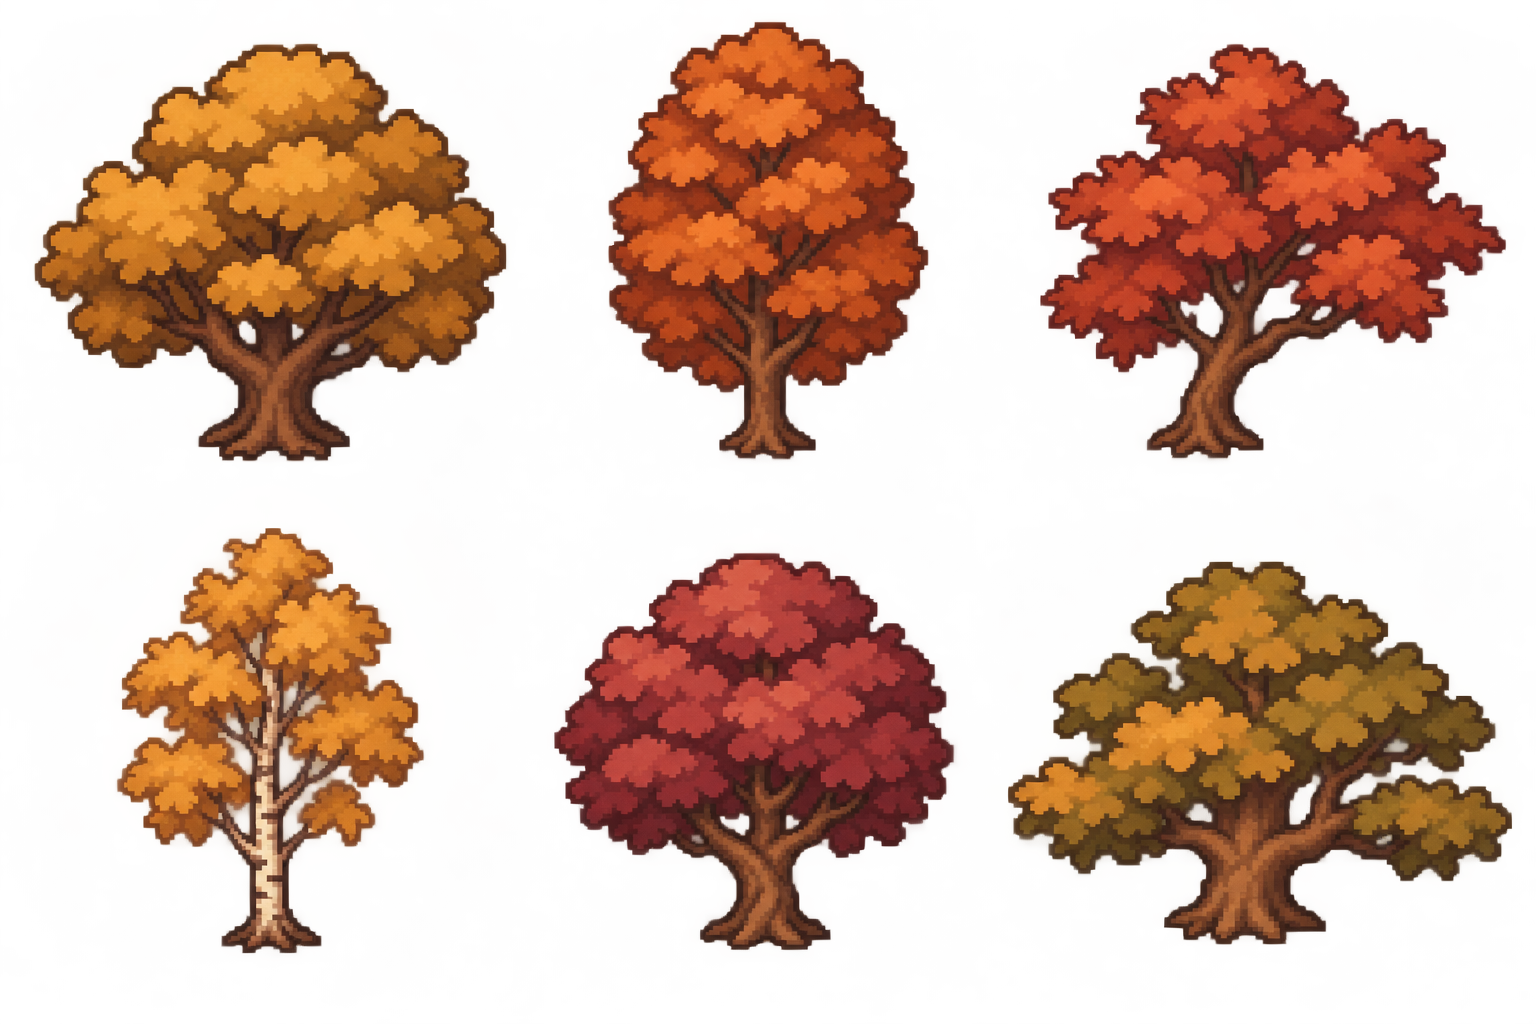
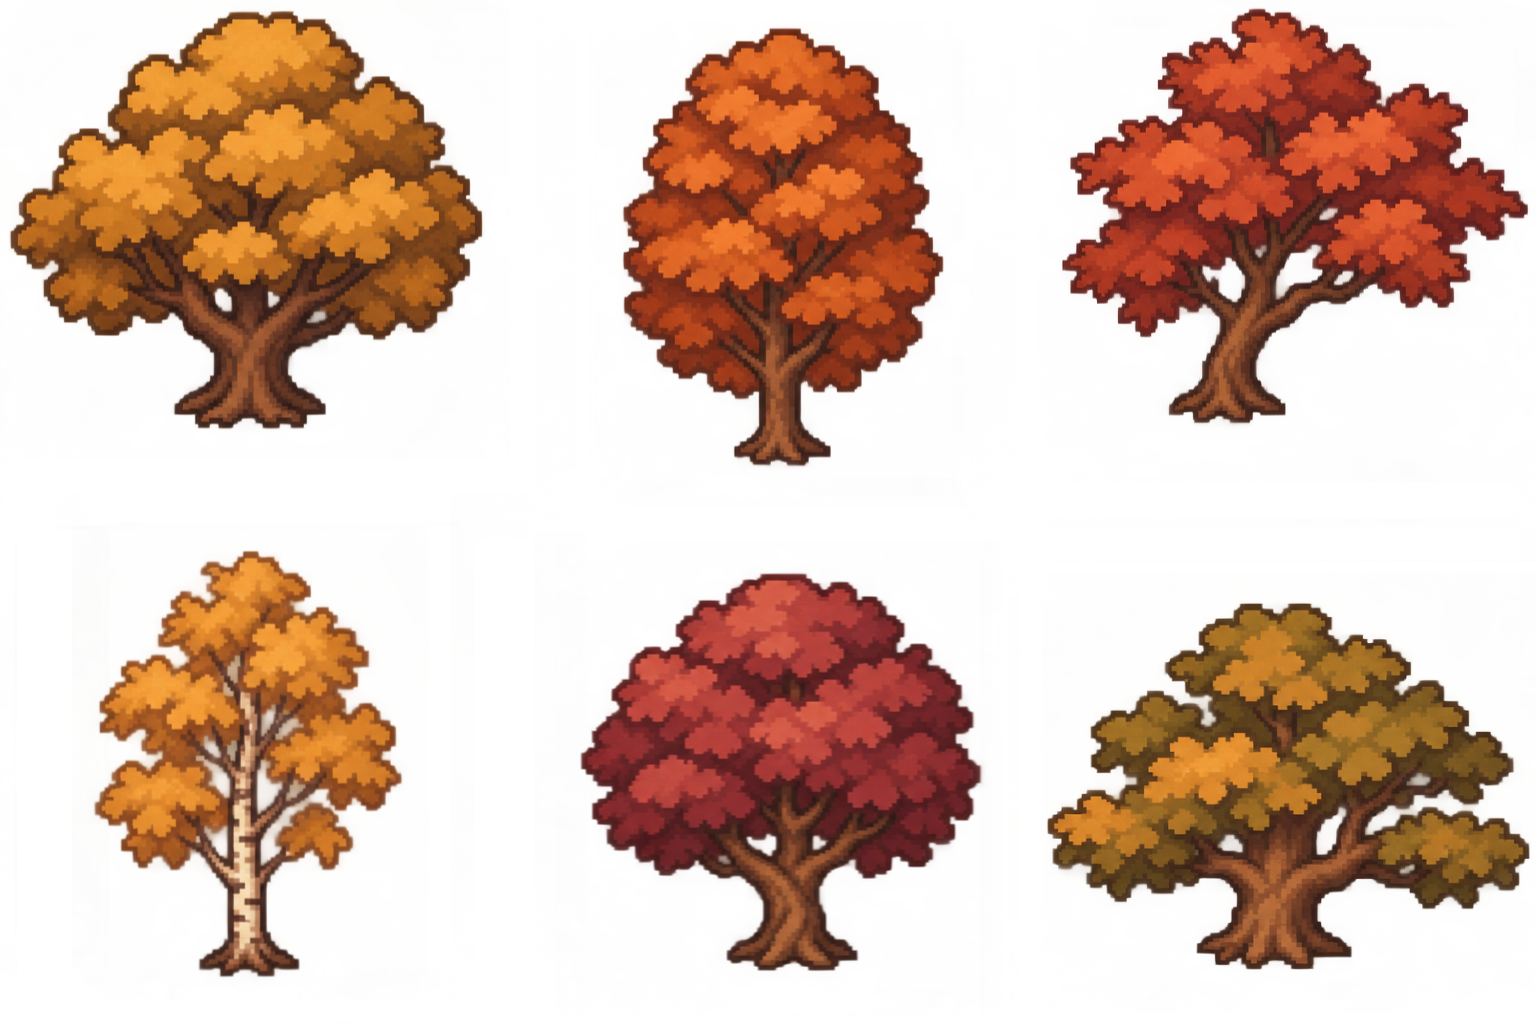
Feat: inventory and almost all obstacles

diff --git a/assets/js/models/game.js b/assets/js/models/game.js
@@ -10,12 +10,14 @@ class Game{
     this.ctx = this.canvas.getContext("2d")
 
     this.bgMusic = new Audio("assets/music/minecraft.mp3")
-    this.bgMusic.volume = 0.1
+    this.bgMusic.volume = 0.3
     this.bgMusic.loop = true
 
     this.bg = new Background(this.ctx)
     this.player = new Player(this.ctx)
-    this.obstacle = new Obstacle(this.ctx, 1000, 1000, 100, 100, ROCKS)
+
+    this.obstaclesCreated = false
+    this.obstacles = []
     this.mushroomsCreated = false
     this.mushrooms = []
 
@@ -68,6 +70,11 @@ class Game{
           this.mushroomsCreated = true
         }
 
+        if(this.bg.image.isReady && this.obstaclesCreated === false){
+          this.createObstacles()
+          this.obstaclesCreated = true
+        }
+
         this.clear()
         this.move()
         this.recolectMushroom()
@@ -97,8 +104,8 @@ class Game{
   
   draw() {
     this.bg.draw()
+    this.obstacles.forEach(obstacle => obstacle.draw(this.bg.x, this.bg.y))
     this.mushrooms.forEach(mushroom => {mushroom.draw(this.bg.x, this.bg.y)})
-    this.obstacle.draw(this.bg.x, this.bg.y)
     this.player.draw(this.isRecolecting, this.recivingDamage)
     this.drawHearts()
   }
@@ -115,18 +122,26 @@ class Game{
     this.player.move(this.bg.borderUp, this.bg.borderRight, this.bg.borderDown, this.bg.borderLeft)
     this.bg.move(this.player)
     
-    //COLISION CON OBSTACULOS
-    const box = this.obstacle.boxToCollides()
-    if(this.player.collidesWith(box, this.bg.x, this.bg.y)){
-      this.player.x = playerX
-      this.player.y = playerY
-      this.bg.x = bgX
-      this.bg.y = bgY
-      this.bg.borderUp = borderUp
-      this.bg.borderRight = borderRight
-      this.bg.borderDown = borderDown
-      this.bg.borderLeft = borderLeft
-    }
+    // COLISION CON OBSTACULOS
+    const playerCollidesWithBox = this.obstacles.some(obstacle => { 
+      const box = obstacle.boxToCollides()
+      if(this.player.collidesWith(box, this.bg.x, this.bg.y)){
+        return true
+      }else{
+        return false
+      }
+    })
+
+     if(playerCollidesWithBox){
+       this.player.x = playerX
+       this.player.y = playerY
+       this.bg.x = bgX
+       this.bg.y = bgY
+       this.bg.borderUp = borderUp
+       this.bg.borderRight = borderRight
+       this.bg.borderDown = borderDown
+       this.bg.borderLeft = borderLeft
+     }
   }
 
   clear() {
@@ -268,9 +283,137 @@ class Game{
     this.accepted.rovello = acceptedRovello
   }
   
-  checkCollisions() {
-  }
+  createObstacles() {
+    const collidesBoxRocks = {
+      rock1: {
+      offsetX: 40,
+      offsetY: 55,
+      w: 30,
+      h: 25
+      },
+      rock2: {
+        offsetX: 35,
+        offsetY: 45,
+        w: 30,
+        h: 35
+      },
+      rock3: {
+        offsetX: 20,
+        offsetY: 65,
+        w: 60,
+        h: 15
+      },
+      rock4: {
+        offsetX: 30,
+        offsetY: 35,
+        w: 40,
+        h: 45
+      },
+      rock6: {
+        offsetX: 35,
+        offsetY: 50,
+        w: 35,
+        h: 30
+      }
+    } 
 
+    const collidesBoxTrees = {
+      tree1: {
+      offsetX: 50,
+      offsetY: 55,
+      w: 50,
+      h: 65
+      },
+      tree2: {
+        offsetX: 66,
+        offsetY: 65,
+        w: 23,
+        h: 65
+      },
+      tree3: {
+        offsetX: 50,
+        offsetY: 65,
+        w: 30,
+        h: 55
+      },
+      tree4: {
+        offsetX: 55,
+        offsetY: 55,
+        w: 30,
+        h: 73
+      },
+      tree5: {
+        offsetX: 60,
+        offsetY: 55,
+        w: 40,
+        h: 73
+      },
+      tree6: {
+        offsetX: 45,
+        offsetY: 60,
+        w: 55,
+        h: 60
+      }
+    } 
+
+    const collidesBoxBrambles = {
+      bramble1: {
+      offsetX: 30,
+      offsetY: 45,
+      w: 50,
+      h: 35
+      },
+      bramble2: {
+        offsetX: 25,
+        offsetY: 25,
+        w: 40,
+        h: 60
+      },
+      bramble3: {
+        offsetX: 10,
+        offsetY: 65,
+        w: 30,
+        h: 55
+      },
+      bramble4: {
+        offsetX: 55,
+        offsetY: 55,
+        w: 30,
+        h: 73
+      },
+      bramble5: {
+        offsetX: 60,
+        offsetY: 55,
+        w: 40,
+        h: 73
+      },
+      bramble6: {
+        offsetX: 45,
+        offsetY: 60,
+        w: 55,
+        h: 60
+      }
+    } 
+
+    const collidesBoxTrunks = {
+      trunk1: {
+      offsetX: 25,
+      offsetY: 45,
+      w: 60,
+      h: 25
+      },
+    } 
+
+
+    this.obstacles.push(
+      new Obstacle(this.ctx, 1760, 1650, 0, 0, 100, 100, BRAMBLE, collidesBoxBrambles.bramble1, true),
+      new Obstacle(this.ctx, 1760, 2100, 1, 0, 100, 100, BRAMBLE, collidesBoxBrambles.bramble2, true),
+      new Obstacle(this.ctx, 1870, 2100, 1, 1, 100, 100, BRAMBLE, collidesBoxBrambles.bramble3, true),
+      new Obstacle(this.ctx, 1870, 1650, 2, 1, 100, 100, BRAMBLE, collidesBoxBrambles.bramble4, true),
+      new Obstacle(this.ctx, 2000, 1650, 2, 0, 100, 100, BRAMBLE, collidesBoxBrambles.bramble5, true),
+      new Obstacle(this.ctx, 2000, 2100, 0, 1, 100, 100, BRAMBLE, collidesBoxBrambles.bramble6, true),
+    )
+  }
   recolectMushroom() {
     const collidesWithMushroom = this.mushrooms.some(mushroom => this.player.collidesWith(mushroom, this.bg.x, this.bg.y))
     if(this.player.collectPressed && collidesWithMushroom){
@@ -348,6 +491,36 @@ class Game{
     const rossinyolsCounter = document.getElementById("rossinyols_counter")
     const rovelloCounter = document.getElementById("rovello_counter")
     const trompetaCounter = document.getElementById("trompeta_counter")
+
+    if(this.inventory.cep === 0){
+      cepCounter.parentElement.style.display = "none"
+    }else{
+      cepCounter.parentElement.style.display = "flex"
+    }
+
+    if(this.inventory.reig === 0){
+      reigCounter.parentElement.style.display = "none"
+    }else{
+      reigCounter.parentElement.style.display = "flex"
+    }
+
+    if(this.inventory.rossinyol === 0){
+      rossinyolsCounter.parentElement.style.display = "none"
+    }else{
+      rossinyolsCounter.parentElement.style.display = "flex"
+    }
+
+    if(this.inventory.rovello === 0){
+      rovelloCounter.parentElement.style.display = "none"
+    }else{
+      rovelloCounter.parentElement.style.display = "flex"
+    }
+
+    if(this.inventory.trompeta === 0){
+      trompetaCounter.parentElement.style.display = "none"
+    }else{
+      trompetaCounter.parentElement.style.display = "flex"
+    }
 
     cepCounter.textContent = `${this.inventory.cep}/${this.accepted.cep}`
     reigCounter.textContent = `${this.inventory.reig}/${this.accepted.reig}`

diff --git a/assets/js/models/obstacles.js b/assets/js/models/obstacles.js
@@ -1,5 +1,5 @@
 class Obstacle {
-  constructor(ctx, x, y, w, h, src, inflictsDamage = false) {
+  constructor(ctx, x, y, colFrame, rowFrame, w, h, src, collidesBox, inflictsDamage = false) {
     this.ctx = ctx
     this.x = x
     this.y = y
@@ -13,8 +13,8 @@ class Obstacle {
     
     this.sprite.cols = 3
     this.sprite.rows = 2
-    this.sprite.colsFrame = 0
-    this.sprite.rowsFrame = 0
+    this.sprite.colsFrame = colFrame
+    this.sprite.rowsFrame = rowFrame
 
     this.sprite.onload = () => {
       
@@ -26,10 +26,7 @@ class Obstacle {
     
     this.sprite.src = src
 
-    this.firstRockX = 35
-    this.firstRockY = 55
-    this.firstRockW = 40
-    this.firstRockH = 25
+    this.collidesBox = collidesBox
   }
   
   draw(bgX, bgY) {
@@ -45,15 +42,22 @@ class Obstacle {
         this.w,
         this.h
       )
+
+      this.ctx.fillRect(
+        this.x + bgX + this.collidesBox.offsetX,
+        this.y + bgY + this.collidesBox.offsetY,
+        this.collidesBox.w,
+        this.collidesBox.h
+      )
     }
   }
 
   boxToCollides() {
     return {
-      x: this.x + this.firstRockX,
-      y: this.y + this.firstRockY,
-      w: this.firstRockW,
-      h: this.firstRockH
+      x: this.x + this.collidesBox.offsetX,
+      y: this.y + this.collidesBox.offsetY,
+      w: this.collidesBox.w,
+      h: this.collidesBox.h
     }
   }
 }

diff --git a/assets/css/style.css b/assets/css/style.css
@@ -31,20 +31,20 @@ body{
 
 #inventory{
   display: flex;
+  justify-content: space-evenly;
   margin-top: -5px;
   width: 360px;
-  height: 6%;
 }
 
 .mush{
-  display: flex;
+  display: none;
   flex-direction: column;
   align-items: center;
 }
 
 .mush img {
   margin-bottom: -20px;
-  width: 75%;
+  width: 40px;
 }
 
 .mush p{

diff --git a/assets/js/constants.js b/assets/js/constants.js
@@ -42,6 +42,9 @@ const MUSHROOM_SRC = "assets/img/mushrooms/amanitaMuscaria.png"
 
 // OBSTACLES
 const ROCKS = "assets/img/obstacles/rocks.png"
+const BRAMBLE = "assets/img/obstacles/bramble.png"
+const TREES = "assets/img/obstacles/trees.png"
+const TRUNK = "assets/img/obstacles/trunk.png"
 
 // TREE
 
